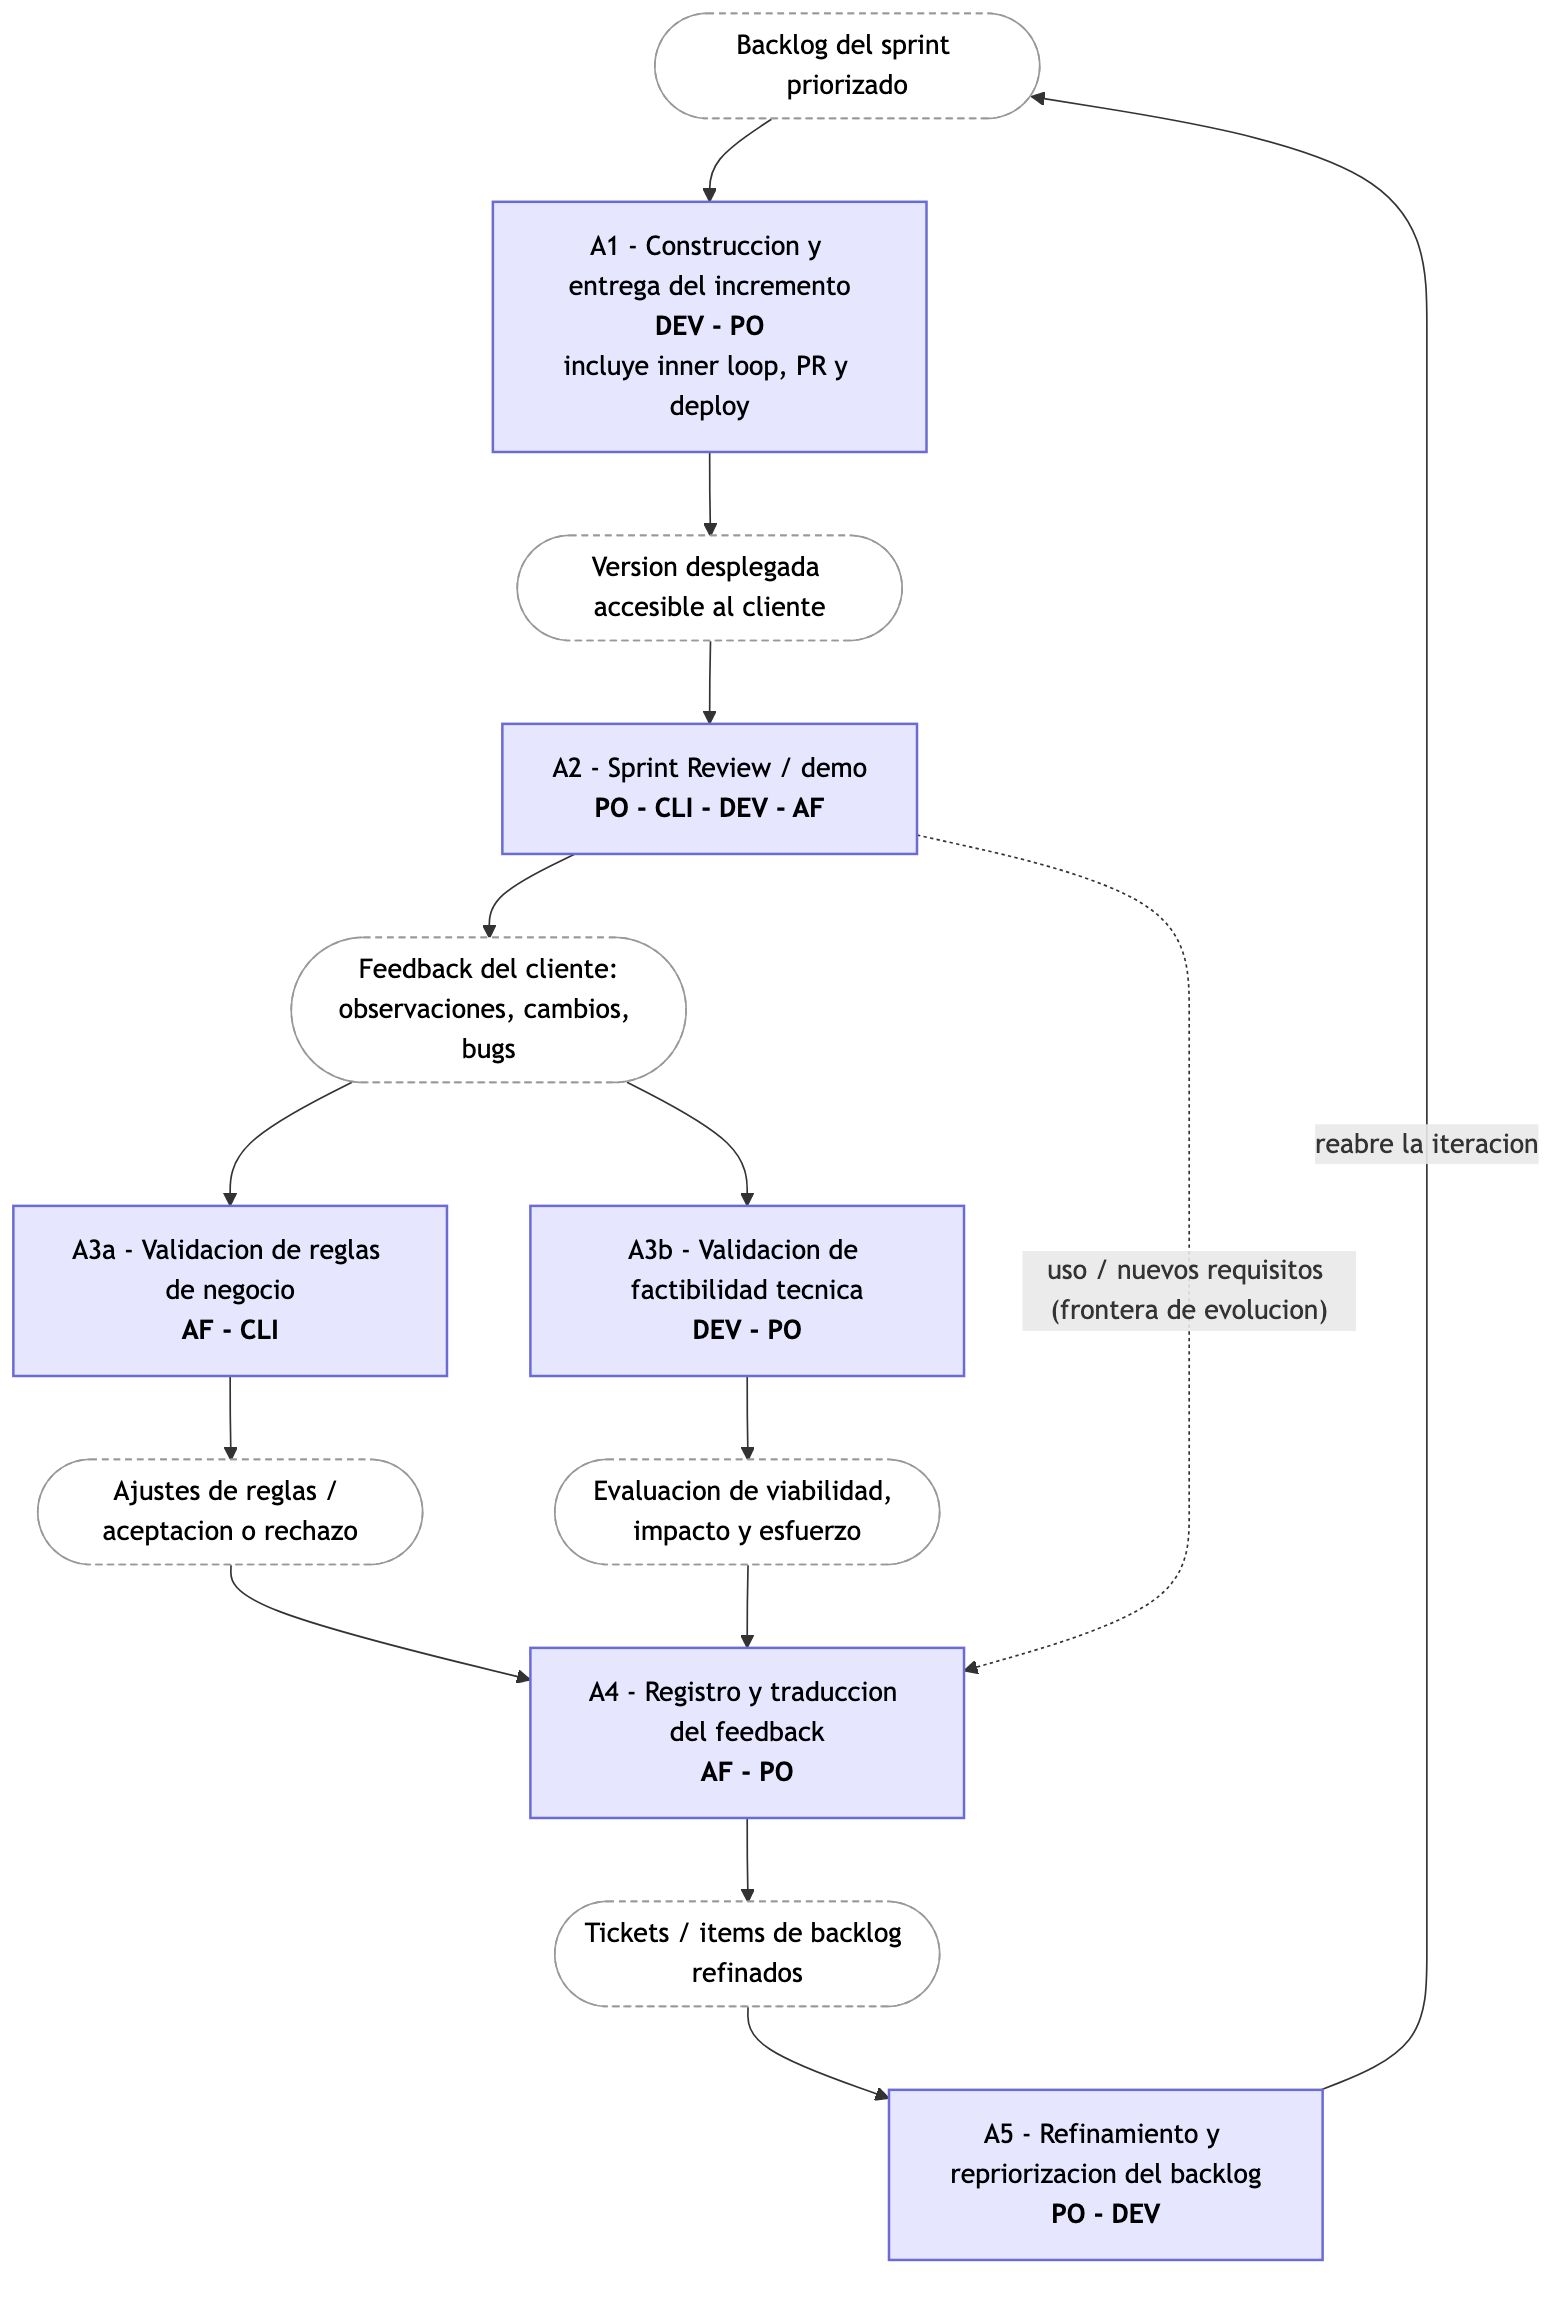
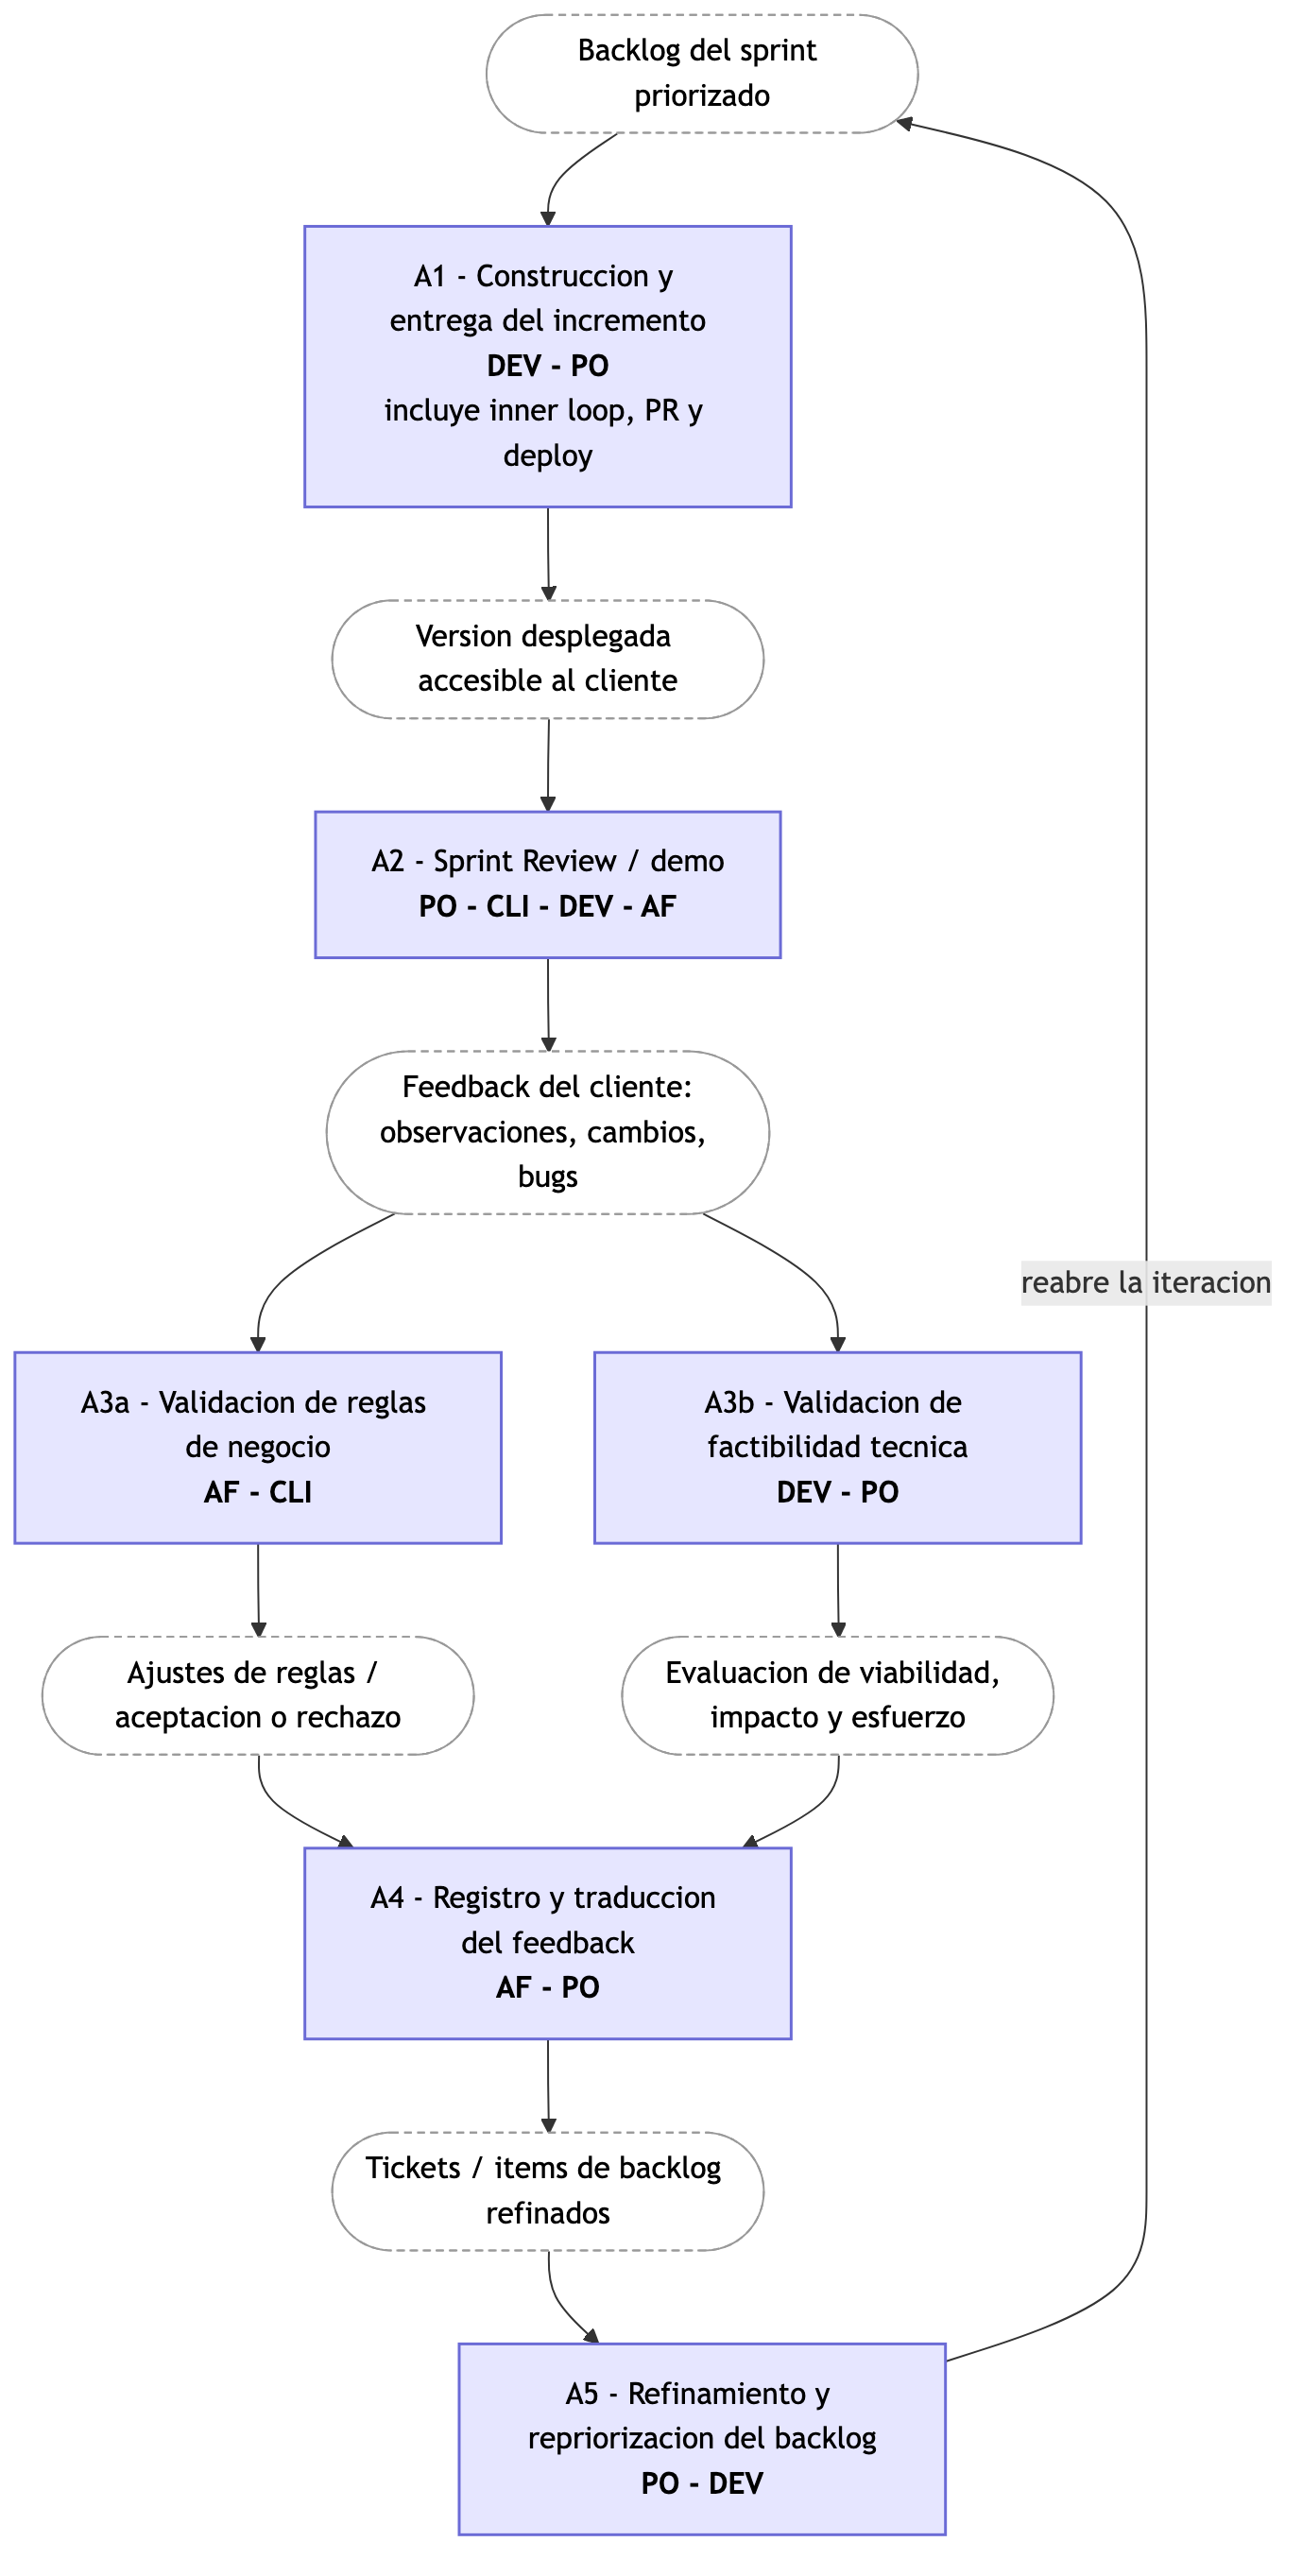
sprint 14: cerrar decisiones (evolucion fuera del zoom; A4 como una actividad)
- Quitar la frontera de evolucion/uso en produccion: foco solo en feedback de Sprint Review / aceptacion
- A4 se mantiene como una sola actividad (desglose fino queda para el ticket 2)
- Renombrar seccion 4 a "Decisiones tomadas" y regenerar PNG principal

diff --git a/sprint 14/MARCO_PROCESO_FEEDBACK.md b/sprint 14/MARCO_PROCESO_FEEDBACK.md
@@ -8,7 +8,7 @@ Zoom sobre la etapa de feedback del ciclo de vida (`sprint 12/CICLO_DE_VIDA.md`)
 
 **Entra:** desde que hay un incremento (v ≥ 0.1 **con código**) frente al negocio, y el feedback externo que desencadena hasta el siguiente entregable.
 
-**Queda fuera:** discovery/elicitación inicial, validación de prototipo, diseño UX temprano, mantenimiento de largo plazo.
+**Queda fuera:** discovery/elicitación inicial, validación de prototipo, diseño UX temprano, y el uso en producción / evolución (feedback posterior a la aceptación).
 
 ---
 
@@ -25,9 +25,7 @@ Zoom sobre la etapa de feedback del ciclo de vida (`sprint 12/CICLO_DE_VIDA.md`)
 | A4 | Registro y traducción del feedback | 🟨 AF, 🟧 PO | Feedback crudo (call, mail, bugs) | Tickets / ítems de backlog refinados | Convertir feedback disperso en trabajo accionable |
 | A5 | Refinamiento y repriorización del backlog | 🟧 PO (+ 🟩 DEV) | Tickets nuevos + backlog | Backlog priorizado | Decidir qué entra en la próxima iteración → reabre A1 |
 
-**Frontera de evolución:** con el incremento en uso, ⬜ USR (usuarios finales) genera nuevos requisitos que también alimentan A4/A5. Se señala como frontera, no se desarrolla acá.
-
-> Correspondencia con el ciclo de vida (sprint 12): A1 pliega los loops técnicos internos (inner loop del dev y revisión de PR); A2 es el loop de incremento; A3a es la validación de reglas de negocio; la frontera de evolución es el loop de uso/nuevos requisitos.
+> Correspondencia con el ciclo de vida (sprint 12): A1 pliega los loops técnicos internos (inner loop del dev y revisión de PR); A2 es el loop de incremento; A3a es la validación de reglas de negocio. El uso en producción (evolución) queda **fuera** del zoom.
 
 ---
 
@@ -58,7 +56,6 @@ flowchart TD
     FBK --> A3b --> FAC --> A4
     A4 --> TIC --> A5
     A5 -->|"reabre la iteracion"| BL
-    A2 -.->|"uso / nuevos requisitos (frontera de evolucion)"| A4
 ```
 
 ### 3.1. Vista secundaria: por carriles (roles)
@@ -101,10 +98,10 @@ flowchart LR
 
 ---
 
-## 4. Decisiones abiertas
+## 4. Decisiones tomadas
 
-- [ ] ¿La frontera de evolución (uso en producción) entra en el zoom o se deja afuera?
-- [ ] Granularidad de A4 (registro/traducción): probable punto de mayor entrada de IAG en el ticket 2.
+- [x] El uso en producción / evolución queda **fuera** del zoom: el foco es solo el feedback de la Sprint Review / aceptación.
+- [x] A4 (registro/traducción) se modela como **una sola actividad**; su desglose fino se hará en el ticket 2 (donde entra la IAG).
 - [x] Vista por carriles por rol: **hecha** (§3.1), como vista **secundaria** (base para el objetivo C).
 
 ---